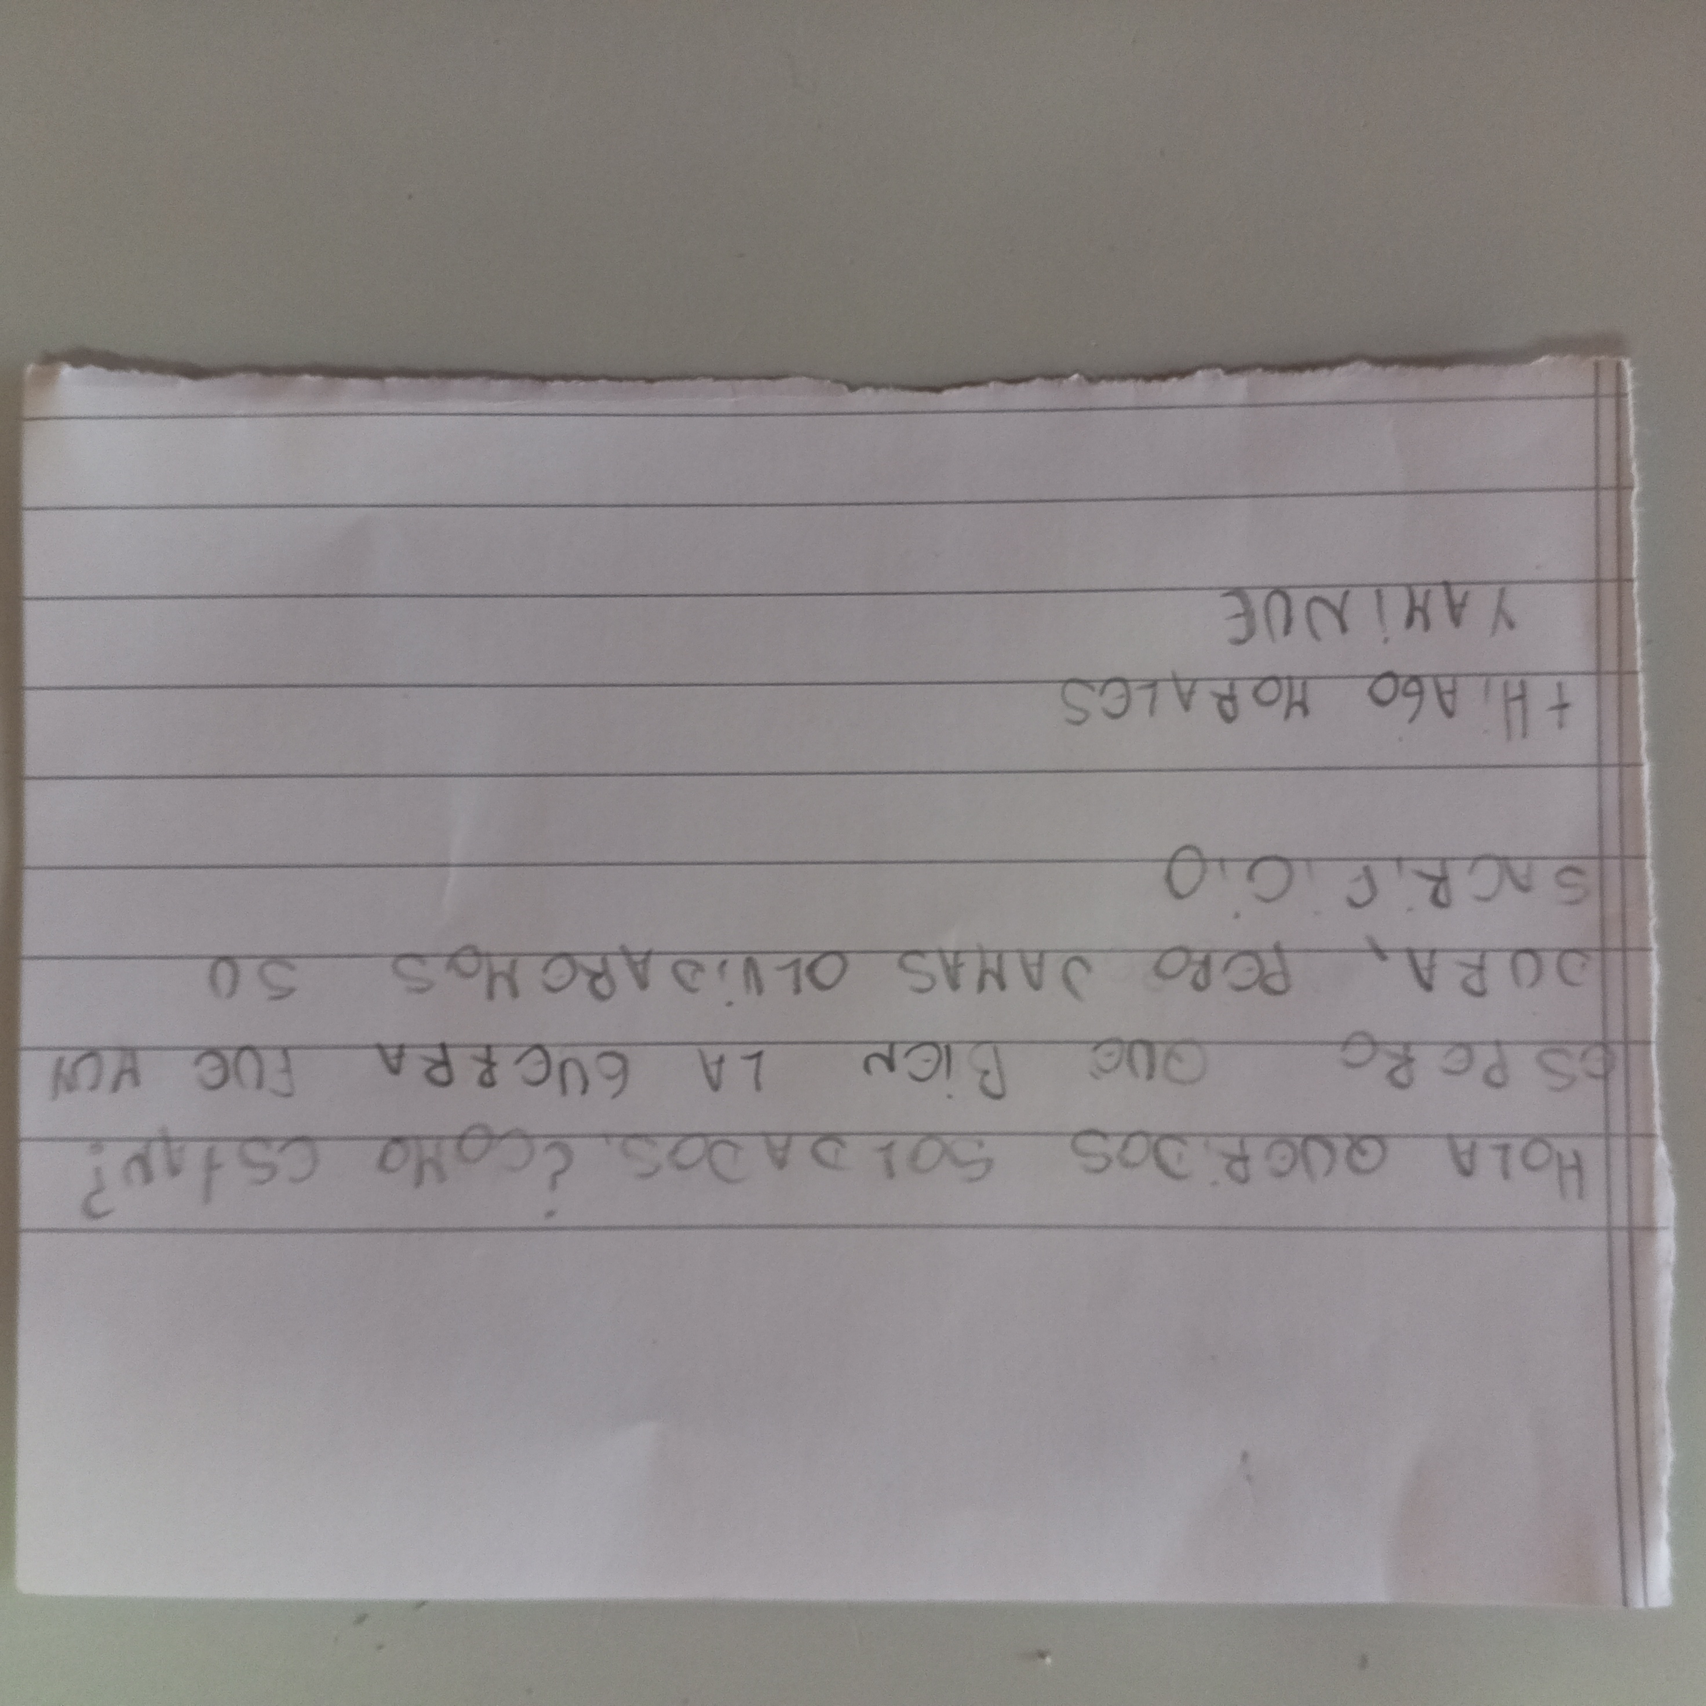
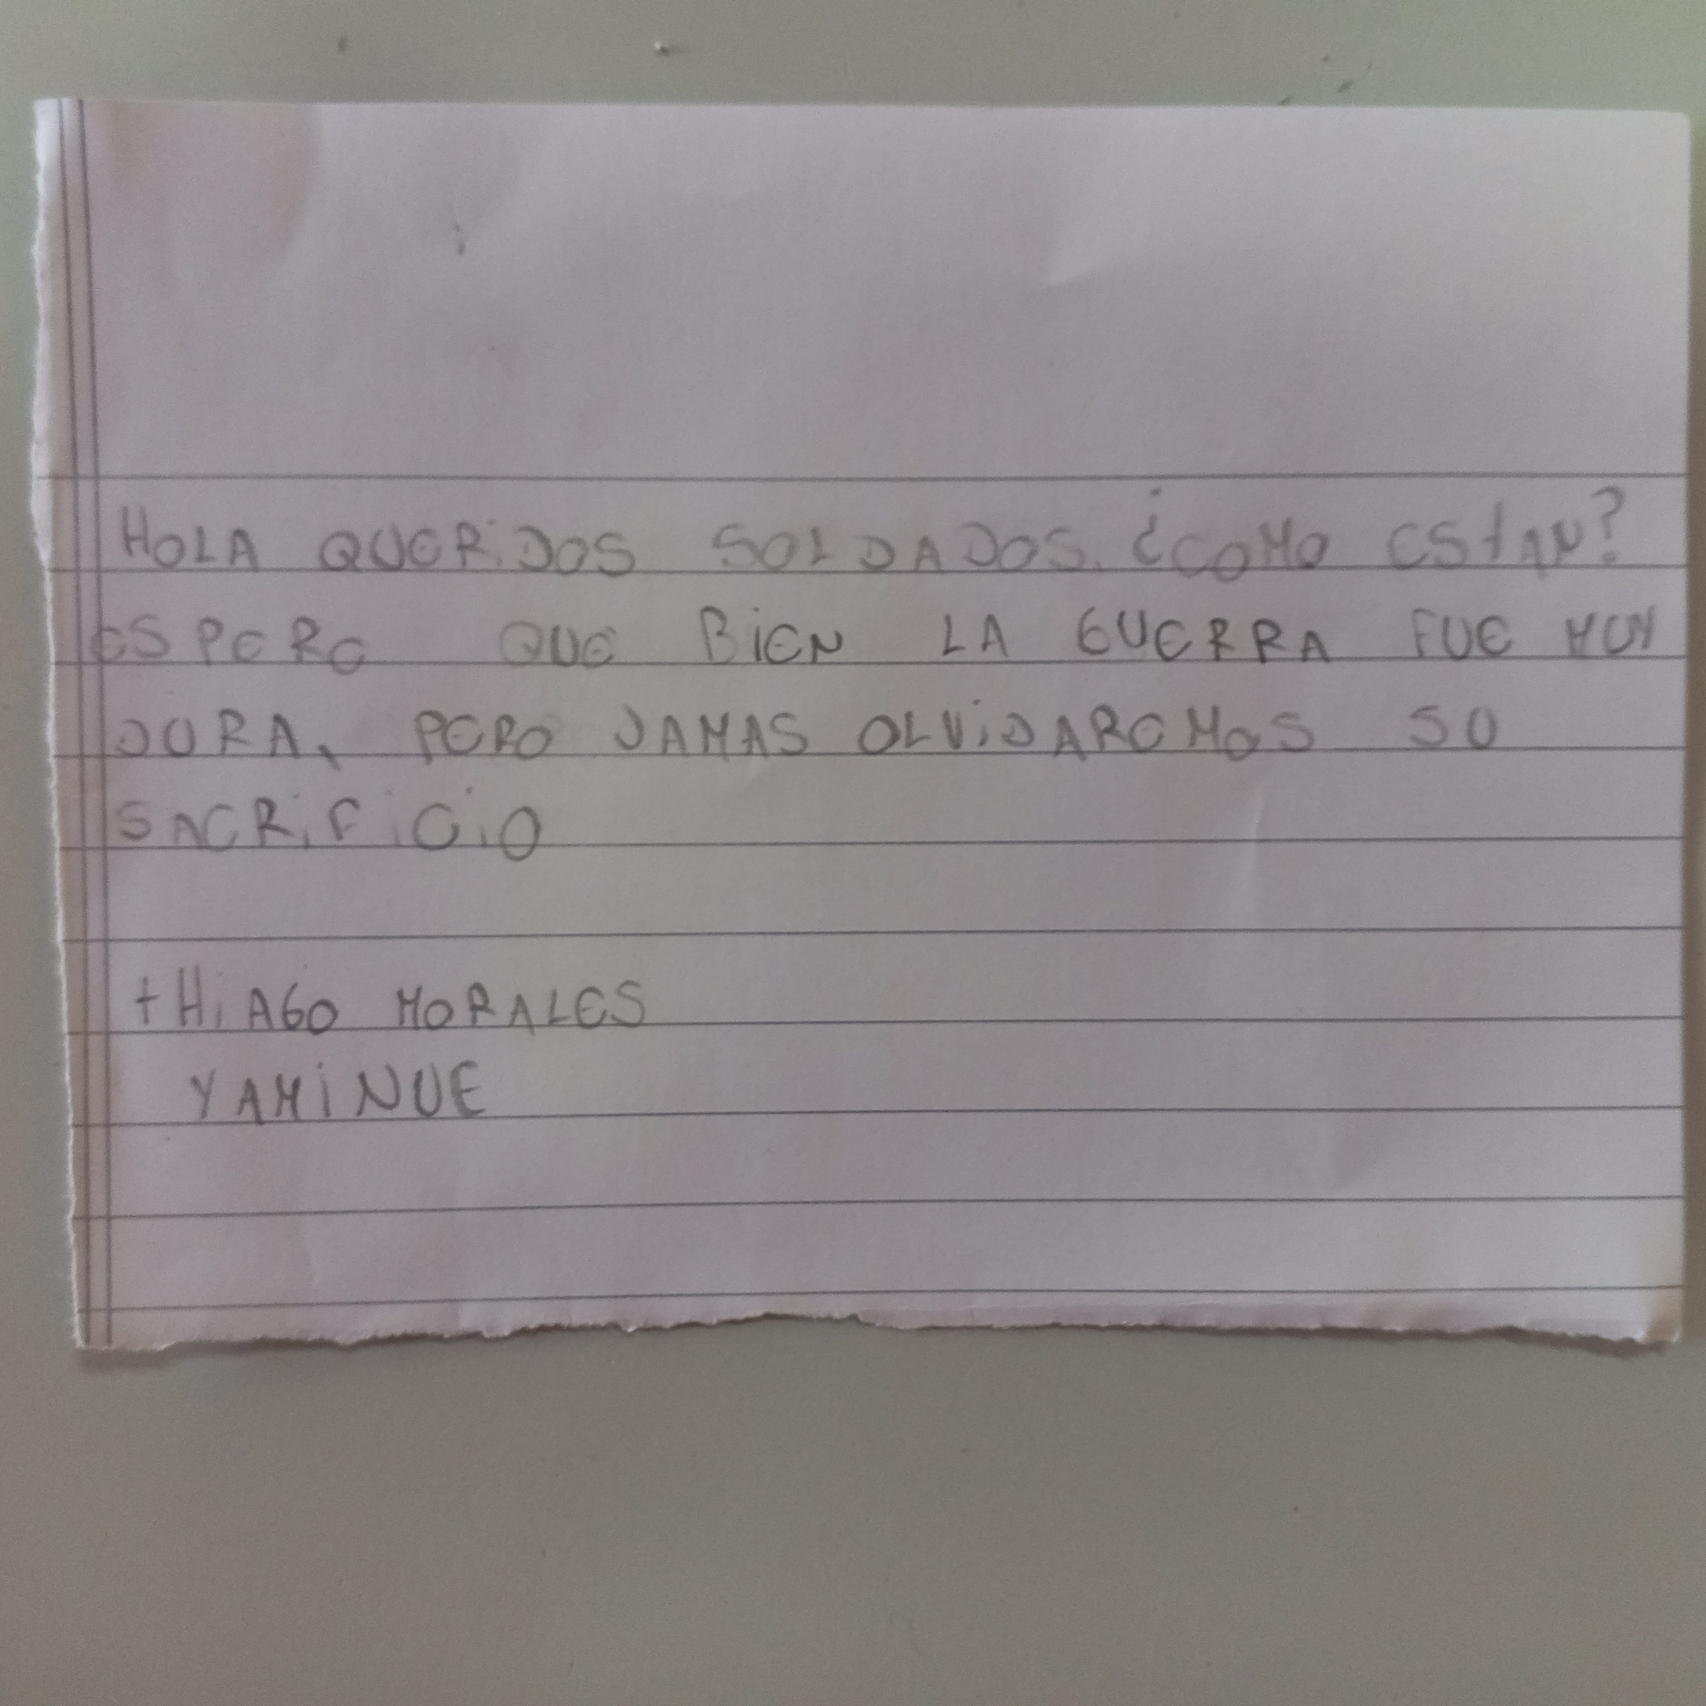
Malvinas: correcciones de orientación/orden y recorte de fotos

diff --git a/ediciones/01/malvinas/index.html b/ediciones/01/malvinas/index.html
@@ -28,18 +28,15 @@
 <p class="articulo__meta"><span class="articulo__dato" itemprop="author"><b>Por</b> Alumnos y docentes · Educación Científica y Tecnológica</span> · <span class="articulo__dato" itemprop="location"><b>Sede:</b> ESRN Rural Virtual</span> · <time datetime="2026-04-02">Abril 2026</time> · <a href="../secciones/proyectos.html">Proyectos</a></p>
 </header>
 <div class="articulo__cuerpo" itemprop="articleBody">
-<p class='txt-parrafo'>¿Cómo se enseña, se siente y se defiende la soberanía desde la virtualidad y la ruralidad? Esta fue la premisa central con la que el Área de Educación Científica y Tecnológica impulsó una propuesta integral destinada a las y los estudiantes, transformando la conmemoración del 2 de abril, “Día del Veterano y de los Caídos en la Guerra de Malvinas”, en un puente activo entre la memoria histórica, la ciencia, la geografía y el compromiso ciudadano.</p><div class="video"><iframe src="https://drive.google.com/file/d/1WMx0LabUWEUoAz8fILzTZd4k_T9z3NgQ/preview" allow="accelerometer; autoplay; clipboard-write; encrypted-media; gyroscope; picture-in-picture; web-share" referrerpolicy="strict-origin-when-cross-origin" playsinline allowfullscreen title="Video del articulo"></iframe><p class="video__salida"><a href="https://drive.google.com/file/d/1WMx0LabUWEUoAz8fILzTZd4k_T9z3NgQ/preview" target="_blank" rel="noopener">Si no se reproduce, miralo en YouTube &#8599;</a></p></div><h3 class='txt-titulo'>Un recorrido en tres momentos: del mapa a la acción</h3><p class='txt-parrafo'>La iniciativa se estructuró a través de un recorrido pedagógico dinámico dividido en tres estaciones conceptuales y prácticas:</p><ul class='txt-lista'><li>¿Cuál es el verdadero tamaño de la Argentina? A través de la revisión del mapa bicontinental, la propuesta invitó a dimensionar nuestro territorio más allá de la porción continental, integrando el Mar Argentino, las Islas del Atlántico Sur y el sector antártico. Las estaciones de reflexión desafiaron a los y las estudiantes a pensar cómo la ciencia, la tecnología y el conocimiento estratégico son las herramientas fundamentales para defender la soberanía en el siglo XXI.</li><li>Lugares de la memoria. La comunidad se propuso indagar en cómo la historia habita en los espacios cotidianos (monumentos, placas, nombres de calles o escuelas) y llevar la reflexión a la práctica mediante la creación de mojones locales. Con el cálculo de distancias reales hacia las islas utilizando herramientas geográficas y la construcción de siluetas con elementos del entorno natural, cada sede visibilizó la cercanía simbólica con nuestro suelo austral.</li><li>Cartas por la memoria y la soberanía. Inspirados en las misivas que en 1982 cruzaron el océano para transformarse en abrigo frente a la incertidumbre, los y las estudiantes redactaron cartas dirigidas al presente y a los ex combatientes. El ejercicio combinó la reflexión sobre la identidad nacional con compromisos concretos orientados a mantener viva la causa, combatir la desinformación y sostener el reclamo por la vía del diálogo y la paz.</li></ul><h3 class='txt-titulo'>Producciones de las y los estudiantes</h3><p class='txt-parrafo'>Las producciones que se comparten a continuación recogen el trabajo de las distintas sedes y grupos: infografías, mapas, mojones, dibujos, cartas y reflexiones elaboradas en el marco de esta propuesta. Se incluyen también las publicaciones textuales del muro colaborativo.</p><figure class="fig fig--g8"><img src="foto-01.jpg" alt="" loading="lazy" decoding="async"><figcaption>Aáron Chicaval.3 año-Yaminue</figcaption></figure><figure class="fig fig--g8"><img src="foto-02.jpg" alt="" loading="lazy" decoding="async"><figcaption>Aáron Chicaval.3 año-Yaminue</figcaption></figure><figure class="fig fig--g8"><img src="foto-03.jpg" alt="" loading="lazy" decoding="async"><figcaption>Zaira Guaiquian-2 año-Yaminue</figcaption></figure><figure class="fig fig--g8"><img src="foto-04.jpg" alt="" loading="lazy" decoding="async"><figcaption>THIAGO MORALES GARCIA-2 AÑO-YAMINUE</figcaption></figure><figure class="fig fig--g8"><img src="foto-05.jpg" alt="" loading="lazy" decoding="async"><figcaption>Bianca Guaiquian-4 año-Yaminue</figcaption></figure><figure class="fig fig--g8"><img src="foto-06.jpg" alt="" loading="lazy" decoding="async"><figcaption>Brisa Millaqueo-2 año-Yaminue</figcaption></figure><figure class="fig fig--g8"><img src="foto-07.jpg" alt="" loading="lazy" decoding="async"><figcaption>Agustina Millaqueo -3 año-Yaminué</figcaption></figure><figure class="fig fig--g8"><img src="foto-08.jpg" alt="" loading="lazy" decoding="async"><figcaption>Maia Chazarreta -4 año — Maia Chazarreta -4 año-Yaminue</figcaption></figure><figure class="fig fig--g8"><img src="foto-09.jpg" alt="" loading="lazy" decoding="async"><figcaption>Sede Yaminué — Buen día,realizamos un pequeño mural en el patio de nuestra escuela para conmemorar a los Veteranos y caídos en Malvinas ,en la que debemos</figcaption></figure><figure class="fig fig--g8"><img src="foto-10.jpeg" alt="" loading="lazy" decoding="async"><figcaption>1ro,2do,3ro, 4to y 5to año-Aguada Guzmán. — Estas son algunas de las producciones que hicimos para recordar y valorar a los soldados que lucharon por nuestras islas Malvinas.</figcaption></figure><figure class="fig fig--g8"><img src="foto-11.jpeg" alt="" loading="lazy" decoding="async"><figcaption>1ro,2do,3ro, 4to y 5to año-Aguada Guzmán. — Estas son algunas de las producciones que hicimos para recordar y valorar a los soldados que lucharon por nuestras islas Malvinas.</figcaption></figure><figure class="fig fig--g8"><img src="foto-12.jpeg" alt="" loading="lazy" decoding="async"><figcaption>1ro,2do,3ro, 4to y 5to año-Aguada Guzmán. — Estas son algunas de las producciones que hicimos para recordar y valorar a los soldados que lucharon por nuestras islas Malvinas.</figcaption></figure><figure class="fig fig--g8"><img src="foto-13.jpeg" alt="" loading="lazy" decoding="async"><figcaption>Eluney Godoy 2do-Esperanza bustos, Tyago Gutierres 3ro-Ariadna Suazo, Leonel Godoy, Braiton Rocha 4to-Lautaro Godoy, Kiara Mancilla 5to- Sede valle verde A.32                                                                       Tercer momento</figcaption></figure><figure class="fig fig--g8"><img src="foto-14.jpeg" alt="" loading="lazy" decoding="async"><figcaption>Eluney Godoy 2do- Esperanza bustos,Tyago Gutierres 3ro-Ariadna Suazo, Leonel godoy,Braiton rocha 4to-Lautaro godoy, Kiara mansilla 5to- Sede valle verde A.32                         Segundo momento</figcaption></figure><figure class="fig fig--g8"><img src="foto-15.jpg" alt="" loading="lazy" decoding="async"><figcaption>ESRN RV-BLANCURA CENTRO — Juan Cruz Epullan - Joaquin Gallardo
-En nuestra escuela,  hicimos un pequeño mural como homenaje a nuestros caídos en Malvinas. Todos los añ</figcaption></figure><figure class="fig fig--g8"><img src="foto-16.jpeg" alt="" loading="lazy" decoding="async"><figcaption>Cerro Policia                                                     Estudiantes: Angi Pelliza - Mariel Vilche Bustos - Samira Ñanco</figcaption></figure><figure class="fig fig--g8"><img src="foto-17.jpeg" alt="" loading="lazy" decoding="async"><figcaption>Cerro Policía                                                            Estudiantes: Agustín Criban - Milagros Martiarena - Lucila Pelliza - Keila Pelliza -  Lázaro Faria - Yair Navarrete - Lautaro Figueredo</figcaption></figure><figure class="fig fig--g8"><img src="foto-18.jpg" alt="" loading="lazy" decoding="async"><figcaption>Faustino Vergara 5to año,  Anexo N°12 Corralito — Hola, comparto el dibujo  que realice de las Islas Malvinas, se encuentra en el aula de la sede y quedara ahí hasta que el tiempo lo decida</figcaption></figure><figure class="fig fig--g8"><img src="foto-19.jpg" alt="" loading="lazy" decoding="async"><figcaption>Sede:Cerro Policia.                    Estudiantes: Juan cruz Avila, Isaias Raninqueo, Isaias Quiroga, Sofia Achares, Xiomara Soto y Gabriel Parra. — A) ¿Dónde está ubicado?
+<p class='txt-parrafo'>texto</p><div class="video"><iframe src="https://drive.google.com/file/d/1WMx0LabUWEUoAz8fILzTZd4k_T9z3NgQ/preview" allow="accelerometer; autoplay; clipboard-write; encrypted-media; gyroscope; picture-in-picture; web-share" referrerpolicy="strict-origin-when-cross-origin" playsinline allowfullscreen title="Video del articulo"></iframe><p class="video__salida"><a href="https://drive.google.com/file/d/1WMx0LabUWEUoAz8fILzTZd4k_T9z3NgQ/preview" target="_blank" rel="noopener">Si no se reproduce, miralo en YouTube &#8599;</a></p></div><figure class="fig fig--g8"><img src="foto-01.jpg" alt="" loading="lazy" decoding="async"><figcaption>Aáron Chicaval.3 año-Yaminue</figcaption></figure><figure class="fig fig--g8"><img src="foto-02.jpg" alt="" loading="lazy" decoding="async"><figcaption>Aáron Chicaval.3 año-Yaminue</figcaption></figure><figure class="fig fig--g8"><img src="foto-03.jpg" alt="" loading="lazy" decoding="async"><figcaption>Zaira Guaiquian-2 año-Yaminue</figcaption></figure><figure class="fig fig--g8"><img src="foto-04.jpg" alt="" loading="lazy" decoding="async"><figcaption>THIAGO MORALES GARCIA-2 AÑO-YAMINUE</figcaption></figure><figure class="fig fig--g8"><img src="foto-05.jpg" alt="" loading="lazy" decoding="async"><figcaption>Bianca Guaiquian-4 año-Yaminue</figcaption></figure><figure class="fig fig--g8"><img src="foto-06.jpg" alt="" loading="lazy" decoding="async"><figcaption>Brisa Millaqueo-2 año-Yaminue</figcaption></figure><figure class="fig fig--g8"><img src="foto-07.jpg" alt="" loading="lazy" decoding="async"><figcaption>Agustina Millaqueo -3 año-Yaminué</figcaption></figure><figure class="fig fig--g8"><img src="foto-08.jpg" alt="" loading="lazy" decoding="async"><figcaption>Maia Chazarreta -4 año — Maia Chazarreta -4 año-Yaminue</figcaption></figure><figure class="fig fig--g8"><img src="foto-09.jpeg" alt="" loading="lazy" decoding="async"><figcaption>Sede Yaminué — Buen día,realizamos un pequeño mural en el patio de nuestra escuela para conmemorar a los Veteranos y caídos en Malvinas ,en la que debemos</figcaption></figure><figure class="fig fig--g8"><img src="foto-10.jpeg" alt="" loading="lazy" decoding="async"><figcaption>1ro,2do,3ro, 4to y 5to año-Aguada Guzmán. — Estas son algunas de las producciones que hicimos para recordar y valorar a los soldados que lucharon por nuestras islas Malvinas.</figcaption></figure><figure class="fig fig--g8"><img src="foto-11.jpeg" alt="" loading="lazy" decoding="async"><figcaption>1ro,2do,3ro, 4to y 5to año-Aguada Guzmán. — Estas son algunas de las producciones que hicimos para recordar y valorar a los soldados que lucharon por nuestras islas Malvinas.</figcaption></figure><figure class="fig fig--g8"><img src="foto-12.jpeg" alt="" loading="lazy" decoding="async"><figcaption>1ro,2do,3ro, 4to y 5to año-Aguada Guzmán. — Estas son algunas de las producciones que hicimos para recordar y valorar a los soldados que lucharon por nuestras islas Malvinas.</figcaption></figure><figure class="fig fig--g8"><img src="foto-13.jpeg" alt="" loading="lazy" decoding="async"><figcaption>Eluney Godoy 2do-Esperanza bustos, Tyago Gutierres 3ro-Ariadna Suazo, Leonel Godoy, Braiton Rocha 4to-Lautaro Godoy, Kiara Mancilla 5to- Sede valle verde A.32                                                                       Tercer momento</figcaption></figure><figure class="fig fig--g8"><img src="foto-14.jpg" alt="" loading="lazy" decoding="async"><figcaption>Eluney Godoy 2do- Esperanza bustos,Tyago Gutierres 3ro-Ariadna Suazo, Leonel godoy,Braiton rocha 4to-Lautaro godoy, Kiara mansilla 5to- Sede valle verde A.32                         Segundo momento</figcaption></figure><figure class="fig fig--g8"><img src="foto-15.jpeg" alt="" loading="lazy" decoding="async"><figcaption>ESRN RV-BLANCURA CENTRO — Juan Cruz Epullan - Joaquin Gallardo
+En nuestra escuela,  hicimos un pequeño mural como homenaje a nuestros caídos en Malvinas. Todos los añ</figcaption></figure><figure class="fig fig--g8"><img src="foto-16.jpeg" alt="" loading="lazy" decoding="async"><figcaption>Cerro Policia                                                     Estudiantes: Angi Pelliza - Mariel Vilche Bustos - Samira Ñanco</figcaption></figure><figure class="fig fig--g8"><img src="foto-17.jpg" alt="" loading="lazy" decoding="async"><figcaption>Cerro Policía                                                            Estudiantes: Agustín Criban - Milagros Martiarena - Lucila Pelliza - Keila Pelliza -  Lázaro Faria - Yair Navarrete - Lautaro Figueredo</figcaption></figure><figure class="fig fig--g8"><img src="foto-18.jpg" alt="" loading="lazy" decoding="async"><figcaption>Faustino Vergara 5to año,  Anexo N°12 Corralito — Hola, comparto el dibujo  que realice de las Islas Malvinas, se encuentra en el aula de la sede y quedara ahí hasta que el tiempo lo decida</figcaption></figure><figure class="fig fig--g8"><img src="foto-19.jpeg" alt="" loading="lazy" decoding="async"><figcaption>Sede:Cerro Policia.                    Estudiantes: Juan cruz Avila, Isaias Raninqueo, Isaias Quiroga, Sofia Achares, Xiomara Soto y Gabriel Parra. — A) ¿Dónde está ubicado?
 
-El memorial se encuentra representado a través de un mural que está ubicado en la escuela primaria José Sabino Roja</figcaption></figure><figure class="fig fig--g8"><img src="foto-20.jpeg" alt="" loading="lazy" decoding="async"><figcaption>Laguna Blanca — Buenos días. Compartimos una foto del cuadro que realizamos, y de fondo nuestra escuela. Las islas Malvinas se encuentran a 1461 Km de nuest</figcaption></figure><figure class="fig fig--g8"><img src="foto-21.webp" alt="" loading="lazy" decoding="async"><figcaption>ESTUDIANTE:Angie Cheuquellan y Francisco Dominguez3ª,Selene Varnes 5ª,Tahiel Cayul2ª — &quot;CARTA PARA LOS SOLDADOS Y LOS CONBATIENTES DE MALVINAS&quot;.
-A 30 años del fin de la guerra, recordamos a los caídos de malvinas y a los jóvene</figcaption></figure><figure class="fig fig--g8"><img src="foto-22.png" alt="" loading="lazy" decoding="async"><figcaption>Leonel Maliqueo 5°- Naim Varnes 3°-Brenda Macaya 3°- Laguna Blanca — ¿Dónde está ubicado?
+El memorial se encuentra representado a través de un mural que está ubicado en la escuela primaria José Sabino Roja</figcaption></figure><figure class="fig fig--g8"><img src="foto-20.webp" alt="" loading="lazy" decoding="async"><figcaption>Laguna Blanca — Buenos días. Compartimos una foto del cuadro que realizamos, y de fondo nuestra escuela. Las islas Malvinas se encuentran a 1461 Km de nuest</figcaption></figure><figure class="fig fig--g8"><img src="foto-21.png" alt="" loading="lazy" decoding="async"><figcaption>ESTUDIANTE:Angie Cheuquellan y Francisco Dominguez3ª,Selene Varnes 5ª,Tahiel Cayul2ª — &quot;CARTA PARA LOS SOLDADOS Y LOS CONBATIENTES DE MALVINAS&quot;.
+A 30 años del fin de la guerra, recordamos a los caídos de malvinas y a los jóvene</figcaption></figure><figure class="fig fig--g8"><img src="foto-22.pdf" alt="" loading="lazy" decoding="async"><figcaption>Leonel Maliqueo 5°- Naim Varnes 3°-Brenda Macaya 3°- Laguna Blanca — ¿Dónde está ubicado?
 Este mural esta ubicado en la parte principal de la escuela.
 
 ¿Qué características tiene? (forma,
-materiales, símbolos,</figcaption></figure><figure class="fig fig--g8"><img src="foto-23.jpg" alt="" loading="lazy" decoding="async"><figcaption>Selene Varnes-Thaiel Cayul-Angie Cheuquellan-Francisco Dominguez. Segundo momento: — ¿Dónde está ubicado?.
-Este mural esta ubicado en una de las paredes de la escuela de nuestra localidad, Laguna Blanca.
-
-¿Qué características</figcaption></figure><figure class="fig fig--g8"><img src="foto-24.pdf" alt="" loading="lazy" decoding="async"><figcaption>Estudiantes de 3ro 1° Anexo 23 -Lago Pellegrini</figcaption></figure><h3 class='txt-titulo'>Ciencia, tecnología y memoria viva</h3><p class='txt-parrafo'>Desde el Área de Educación Científica y Tecnológica se destacó que la propuesta buscó trascender el mero efeméride escolar, propiciando un espacio donde las tecnologías digitales, los recursos cartográficos y el pensamiento crítico se unieron para fortalecer nuestra identidad colectiva.</p><p class='txt-parrafo'>Las producciones finales fueron compartidas en un muro digital colaborativo, consolidando un archivo escolar vivo que será puesto a disposición de centros de veteranos. Una muestra clara de que, desde cada rincón de nuestra ruralidad virtual, las Malvinas siguen estando presentes.</p>
+materiales, símbolos,</figcaption></figure>
 </div>
 <footer class="articulo__fin"><p><a class="volver" href="../secciones/proyectos.html">← Volver a Proyectos</a></p></footer>
 </article>
